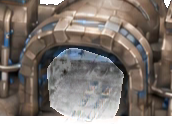
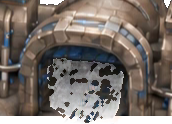
HD sprites: clean team colour on the Processor door, unloading Bullpup same size as on the map
The door overlay is solid where the shutter is, so its team mask comes from
its own painted colours; recolouring keeps pale trims pale. The Processor's
unloading Bullpup pictures are scaled to the map Bullpup's size.

Claude-Session: https://claude.ai/code/session_01LjHDp8sMk4w28S5N1cSgiL

diff --git a/game/sdl/hdsprites.cpp b/game/sdl/hdsprites.cpp
@@ -380,7 +380,8 @@ static SDL_Texture *GetTexture(SDL_Renderer *prend, HdPic *ppic, int side, Uint3
                 float h, s, v;
                 RgbToHsv(r, g, b, &h, &s, &v);
                 // keep the painted shading (brightness); hue and saturation of the side
-                float sNew = sT < 0.15f ? sT : sT + (1 - sT) * (s > sT ? (s - sT) * 0.5f : 0);
+                float sNew = sT < 0.15f ? sT : s * sT / 0.85f;     // pale trims stay pale
+                if (sNew > 1) sNew = 1;
                 HsvToRgb(hT, sNew, v * (0.85f + 0.15f * vT), &r2, &g2, &b2);
             }
             pb[i * 4] = (byte)((r + (r2 - r) * m) * 255 + 0.5f);
